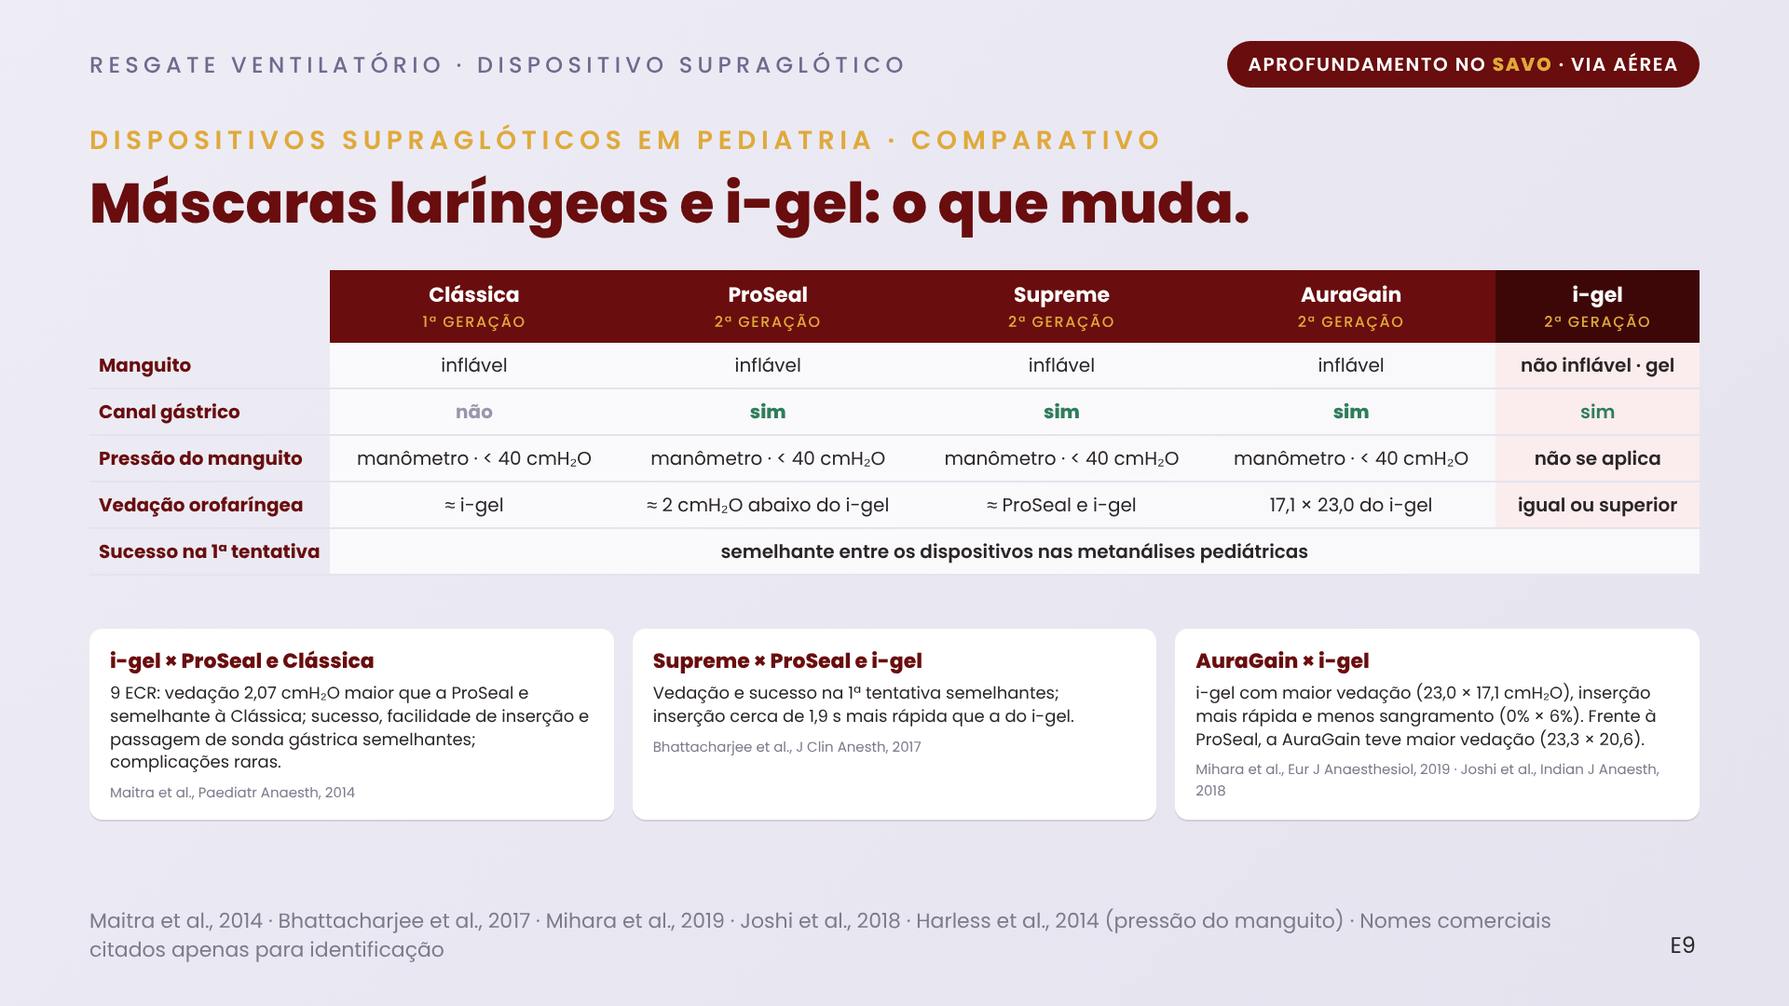
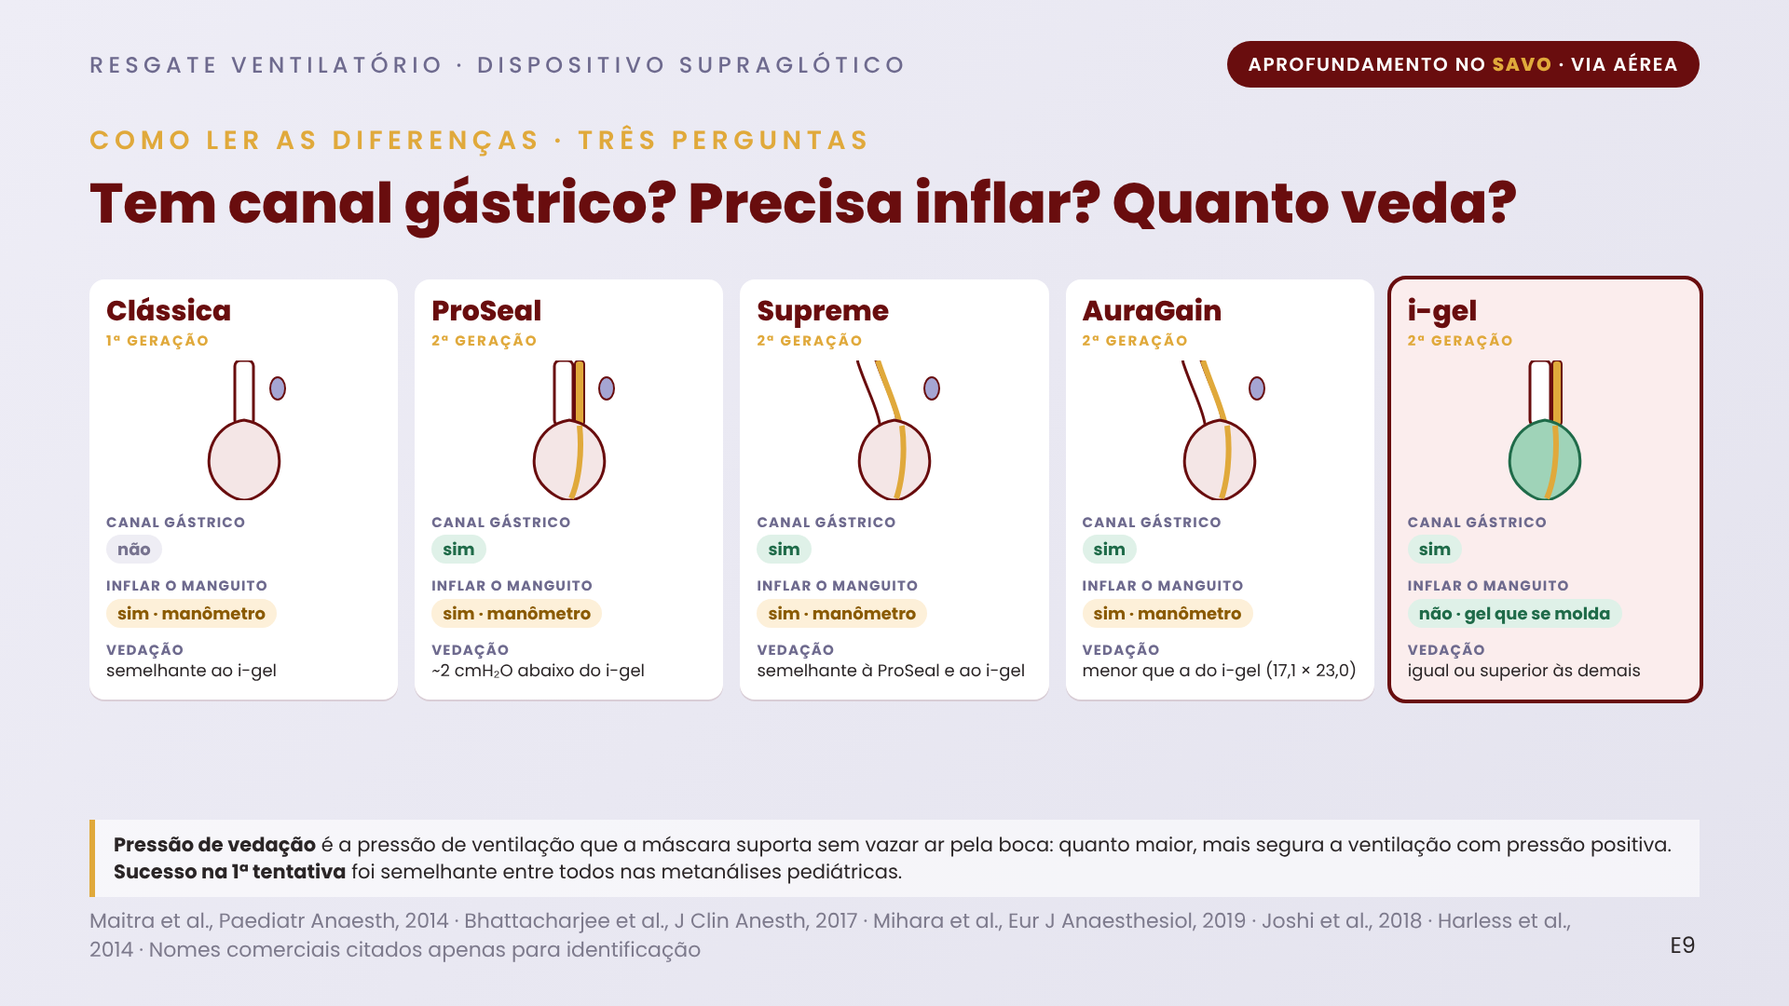
E9 refeito (leitura das diferencas) e E10 (escolha para a maleta)
Claude-Session: https://claude.ai/code/session_01MYEGXM9LVv4Rd1VsREZmpT

Changed region(s): [[0.0312, 0.1222, 0.9688, 0.9778], [0.5312, 0.8861, 0.875, 0.9472]]

diff --git a/aulas-vias-aereas/esquemas-crianca/e9-comparativo-supraglotico.html b/aulas-vias-aereas/esquemas-crianca/e9-comparativo-supraglotico.html
@@ -5,40 +5,52 @@
 .wrap{position:absolute;left:96px;top:110px;right:96px}
 .savo{position:absolute;right:96px;top:44px;background:var(--wine);color:#fff;font-size:20px;font-weight:600;letter-spacing:.08em;padding:10px 22px;border-radius:999px}
 .savo b{color:var(--gold)}
-table{position:absolute;left:96px;top:290px;width:1728px;border-collapse:separate;border-spacing:0;font-size:20px}
-th{background:var(--wine);color:#fff;font-weight:700;font-size:22px;padding:10px 12px;text-align:center}
-th:first-child{background:transparent}
-th small{display:block;font-weight:500;font-size:16px;color:var(--gold);letter-spacing:.1em}
-th.ig{background:#3d0708}
-td{background:rgba(255,255,255,.75);padding:9px 10px;white-space:nowrap;text-align:center;border-bottom:2px solid #E4E3EE}
-td:first-child{background:transparent;text-align:left;font-weight:700;color:var(--wine);width:250px}
-td.ig{background:#FBEDED;font-weight:600}
-.y{color:#2f7d5b;font-weight:800}.n{color:#9a96ad;font-weight:700}
-.ev{position:absolute;left:96px;top:675px;width:1728px;display:grid;grid-template-columns:repeat(3,1fr);gap:20px}
-.card{background:#fff;border-radius:14px;padding:18px 22px;box-shadow:0 2px 0 rgba(105,13,14,.12)}
-.card h3{font-size:22px;color:var(--wine);font-weight:800}
-.card p{font-size:18px;line-height:1.38;margin-top:6px}
-.card small{display:block;font-size:15px;color:#7d7a8c;margin-top:8px}
+.grid{position:absolute;left:96px;top:300px;width:1728px;display:grid;grid-template-columns:repeat(5,1fr);gap:18px}
+.dev{background:#fff;border-radius:16px;padding:18px 18px 20px;box-shadow:0 2px 0 rgba(105,13,14,.12);position:relative}
+.dev.ig{background:#FBEDED;outline:4px solid var(--wine)}
+.dev h3{font-size:30px;color:var(--wine);font-weight:800;line-height:1.05}
+.dev .g{font-size:15px;letter-spacing:.14em;color:var(--gold);font-weight:700;margin-top:4px}
+.q{margin-top:14px;font-size:18px;line-height:1.3}
+.q b{display:block;font-size:15px;letter-spacing:.08em;color:var(--mute);font-weight:700;text-transform:uppercase}
+.tag{display:inline-block;margin-top:4px;padding:4px 12px;border-radius:999px;font-weight:700;font-size:18px}
+.yes{background:#dff1e8;color:#1f6b49}.no{background:#eeedf4;color:#77738f}.warn{background:#fdf0d9;color:#8a5a00}
+svg.ic{display:block;margin:10px auto 0}
+.legend{position:absolute;left:96px;top:880px;width:1728px;font-size:21px;line-height:1.4;background:rgba(255,255,255,.6);border-left:6px solid var(--gold);padding:12px 20px}
 </style></head><body>
 <div class="top">RESGATE VENTILATÓRIO · DISPOSITIVO SUPRAGLÓTICO</div>
 <div class="savo">APROFUNDAMENTO NO <b>SAVO</b> · VIA AÉREA</div>
 <div class="wrap">
-  <div class="kick" style="margin-top:20px">Dispositivos supraglóticos em pediatria · comparativo</div>
-  <h1>Máscaras laríngeas e i-gel: o que muda.</h1>
+  <div class="kick" style="margin-top:20px">Como ler as diferenças · três perguntas</div>
+  <h1>Tem canal gástrico? Precisa inflar? Quanto veda?</h1>
 </div>
-<table>
-  <tr><th></th><th>Clássica<small>1ª GERAÇÃO</small></th><th>ProSeal<small>2ª GERAÇÃO</small></th><th>Supreme<small>2ª GERAÇÃO</small></th><th>AuraGain<small>2ª GERAÇÃO</small></th><th class="ig">i-gel<small>2ª GERAÇÃO</small></th></tr>
-  <tr><td>Manguito</td><td>inflável</td><td>inflável</td><td>inflável</td><td>inflável</td><td class="ig">não inflável · gel</td></tr>
-  <tr><td>Canal gástrico</td><td class="n">não</td><td class="y">sim</td><td class="y">sim</td><td class="y">sim</td><td class="ig y">sim</td></tr>
-  <tr><td>Pressão do manguito</td><td>manômetro · &lt; 40 cmH₂O</td><td>manômetro · &lt; 40 cmH₂O</td><td>manômetro · &lt; 40 cmH₂O</td><td>manômetro · &lt; 40 cmH₂O</td><td class="ig">não se aplica</td></tr>
-  <tr><td>Vedação orofaríngea</td><td>≈ i-gel</td><td>≈ 2 cmH₂O abaixo do i-gel</td><td>≈ ProSeal e i-gel</td><td>17,1 × 23,0 do i-gel</td><td class="ig">igual ou superior</td></tr>
-  <tr><td>Sucesso na 1ª tentativa</td><td colspan="5" style="font-weight:600">semelhante entre os dispositivos nas metanálises pediátricas</td></tr>
-</table>
-<div class="ev">
-  <div class="card"><h3>i-gel × ProSeal e Clássica</h3><p>9 ECR: vedação 2,07 cmH₂O maior que a ProSeal e semelhante à Clássica; sucesso, facilidade de inserção e passagem de sonda gástrica semelhantes; complicações raras.</p><small>Maitra et al., Paediatr Anaesth, 2014</small></div>
-  <div class="card"><h3>Supreme × ProSeal e i-gel</h3><p>Vedação e sucesso na 1ª tentativa semelhantes; inserção cerca de 1,9 s mais rápida que a do i-gel.</p><small>Bhattacharjee et al., J Clin Anesth, 2017</small></div>
-  <div class="card"><h3>AuraGain × i-gel</h3><p>i-gel com maior vedação (23,0 × 17,1 cmH₂O), inserção mais rápida e menos sangramento (0% × 6%). Frente à ProSeal, a AuraGain teve maior vedação (23,3 × 20,6).</p><small>Mihara et al., Eur J Anaesthesiol, 2019 · Joshi et al., Indian J Anaesth, 2018</small></div>
+<div class="grid">
+  <div class="dev"><h3>Clássica</h3><div class="g">1ª GERAÇÃO</div>
+    <svg class="ic" width="120" height="150" viewBox="0 0 120 150"><rect x="50" y="0" width="20" height="70" rx="6" fill="#fff" stroke="#690D0E" stroke-width="3"/><path d="M60,64 C22,70 14,112 30,132 C40,144 52,150 60,150 C68,150 80,144 90,132 C106,112 98,70 60,64Z" fill="#F4E6E6" stroke="#690D0E" stroke-width="3"/><ellipse cx="96" cy="30" rx="8" ry="12" fill="#A5A5D3" stroke="#690D0E" stroke-width="2"/></svg>
+    <div class="q"><b>Canal gástrico</b><span class="tag no">não</span></div>
+    <div class="q"><b>Inflar o manguito</b><span class="tag warn">sim · manômetro</span></div>
+    <div class="q"><b>Vedação</b>semelhante ao i-gel</div></div>
+  <div class="dev"><h3>ProSeal</h3><div class="g">2ª GERAÇÃO</div>
+    <svg class="ic" width="120" height="150" viewBox="0 0 120 150"><rect x="44" y="0" width="20" height="70" rx="6" fill="#fff" stroke="#690D0E" stroke-width="3"/><rect x="66" y="0" width="10" height="70" rx="4" fill="#E0A93B" stroke="#690D0E" stroke-width="2"/><path d="M60,64 C22,70 14,112 30,132 C40,144 52,150 60,150 C68,150 80,144 90,132 C106,112 98,70 60,64Z" fill="#F4E6E6" stroke="#690D0E" stroke-width="3"/><path d="M71,70 C74,100 70,130 62,148" fill="none" stroke="#E0A93B" stroke-width="6"/><ellipse cx="100" cy="30" rx="8" ry="12" fill="#A5A5D3" stroke="#690D0E" stroke-width="2"/></svg>
+    <div class="q"><b>Canal gástrico</b><span class="tag yes">sim</span></div>
+    <div class="q"><b>Inflar o manguito</b><span class="tag warn">sim · manômetro</span></div>
+    <div class="q"><b>Vedação</b>~2 cmH₂O abaixo do i-gel</div></div>
+  <div class="dev"><h3>Supreme</h3><div class="g">2ª GERAÇÃO</div>
+    <svg class="ic" width="120" height="150" viewBox="0 0 120 150"><path d="M30,0 C40,30 52,50 54,70" fill="none" stroke="#690D0E" stroke-width="22" stroke-linecap="round"/><path d="M30,0 C40,30 52,50 54,70" fill="none" stroke="#fff" stroke-width="16" stroke-linecap="round"/><path d="M42,0 C52,30 62,50 66,70" fill="none" stroke="#E0A93B" stroke-width="6"/><path d="M60,64 C22,70 14,112 30,132 C40,144 52,150 60,150 C68,150 80,144 90,132 C106,112 98,70 60,64Z" fill="#F4E6E6" stroke="#690D0E" stroke-width="3"/><path d="M68,70 C72,100 68,130 62,148" fill="none" stroke="#E0A93B" stroke-width="6"/><ellipse cx="100" cy="30" rx="8" ry="12" fill="#A5A5D3" stroke="#690D0E" stroke-width="2"/></svg>
+    <div class="q"><b>Canal gástrico</b><span class="tag yes">sim</span></div>
+    <div class="q"><b>Inflar o manguito</b><span class="tag warn">sim · manômetro</span></div>
+    <div class="q"><b>Vedação</b>semelhante à ProSeal e ao i-gel</div></div>
+  <div class="dev"><h3>AuraGain</h3><div class="g">2ª GERAÇÃO</div>
+    <svg class="ic" width="120" height="150" viewBox="0 0 120 150"><path d="M30,0 C40,30 52,50 54,70" fill="none" stroke="#690D0E" stroke-width="22" stroke-linecap="round"/><path d="M30,0 C40,30 52,50 54,70" fill="none" stroke="#fff" stroke-width="16" stroke-linecap="round"/><path d="M42,0 C52,30 62,50 66,70" fill="none" stroke="#E0A93B" stroke-width="6"/><path d="M60,64 C22,70 14,112 30,132 C40,144 52,150 60,150 C68,150 80,144 90,132 C106,112 98,70 60,64Z" fill="#F4E6E6" stroke="#690D0E" stroke-width="3"/><path d="M68,70 C72,100 68,130 62,148" fill="none" stroke="#E0A93B" stroke-width="6"/><ellipse cx="100" cy="30" rx="8" ry="12" fill="#A5A5D3" stroke="#690D0E" stroke-width="2"/></svg>
+    <div class="q"><b>Canal gástrico</b><span class="tag yes">sim</span></div>
+    <div class="q"><b>Inflar o manguito</b><span class="tag warn">sim · manômetro</span></div>
+    <div class="q"><b>Vedação</b>menor que a do i-gel (17,1 × 23,0)</div></div>
+  <div class="dev ig"><h3>i-gel</h3><div class="g">2ª GERAÇÃO</div>
+    <svg class="ic" width="120" height="150" viewBox="0 0 120 150"><rect x="44" y="0" width="22" height="70" rx="6" fill="#fff" stroke="#690D0E" stroke-width="3"/><rect x="68" y="0" width="10" height="70" rx="4" fill="#E0A93B" stroke="#690D0E" stroke-width="2"/><path d="M60,64 C22,70 14,112 30,132 C40,144 52,150 60,150 C68,150 80,144 90,132 C106,112 98,70 60,64Z" fill="#9fd3b8" stroke="#1f6b49" stroke-width="3"/><path d="M71,70 C74,100 70,130 62,148" fill="none" stroke="#E0A93B" stroke-width="6"/></svg>
+    <div class="q"><b>Canal gástrico</b><span class="tag yes">sim</span></div>
+    <div class="q"><b>Inflar o manguito</b><span class="tag yes">não · gel que se molda</span></div>
+    <div class="q"><b>Vedação</b>igual ou superior às demais</div></div>
 </div>
-<div class="refs">Maitra et al., 2014 · Bhattacharjee et al., 2017 · Mihara et al., 2019 · Joshi et al., 2018 · Harless et al., 2014 (pressão do manguito) · Nomes comerciais citados apenas para identificação</div>
+<div class="legend"><b>Pressão de vedação</b> é a pressão de ventilação que a máscara suporta sem vazar ar pela boca: quanto maior, mais segura a ventilação com pressão positiva. <b>Sucesso na 1ª tentativa</b> foi semelhante entre todos nas metanálises pediátricas.</div>
+<div class="refs">Maitra et al., Paediatr Anaesth, 2014 · Bhattacharjee et al., J Clin Anesth, 2017 · Mihara et al., Eur J Anaesthesiol, 2019 · Joshi et al., 2018 · Harless et al., 2014 · Nomes comerciais citados apenas para identificação</div>
 <div class="num">E9</div>
 </body></html>

diff --git a/aulas-vias-aereas/esquemas-crianca/e10-maleta-supraglotico.html b/aulas-vias-aereas/esquemas-crianca/e10-maleta-supraglotico.html
@@ -1,0 +1,49 @@
+<!doctype html><html lang="pt-BR"><head><meta charset="utf-8">
+<link href="https://fonts.googleapis.com/css2?family=Poppins:wght@300;400;500;600;700;800&display=swap" rel="stylesheet">
+<link rel="stylesheet" href="base.css">
+<style>
+.wrap{position:absolute;left:96px;top:110px;right:96px}
+.savo{position:absolute;right:96px;top:44px;background:var(--wine);color:#fff;font-size:20px;font-weight:600;letter-spacing:.08em;padding:10px 22px;border-radius:999px}
+.savo b{color:var(--gold)}
+.left{position:absolute;left:96px;top:300px;width:900px}
+.crit{display:flex;gap:18px;align-items:flex-start;margin-bottom:20px}
+.crit .n{flex:0 0 52px;height:52px;border-radius:50%;background:var(--gold);color:var(--wine);font:800 24px Poppins;display:flex;align-items:center;justify-content:center;border:2px solid var(--wine)}
+.crit h3{font-size:26px;color:var(--wine);font-weight:800}
+.crit p{font-size:20px;line-height:1.38;margin-top:2px}
+.crit small{display:block;font-size:16px;color:#7d7a8c;margin-top:4px}
+.right{position:absolute;left:1060px;top:300px;width:764px}
+.card{background:#fff;border-radius:16px;padding:22px 26px;box-shadow:0 2px 0 rgba(105,13,14,.12);margin-bottom:18px}
+.card h3{font-size:24px;color:var(--wine);font-weight:800;letter-spacing:.02em}
+table{width:100%;border-collapse:collapse;margin-top:8px;font-size:21px}
+td{padding:6px 8px;border-top:1px solid rgba(105,13,14,.12)}
+td.s{font-weight:800;color:var(--wine);width:70px}
+.pill{display:inline-block;background:var(--wine);color:#fff;font-weight:700;font-size:16px;padding:3px 10px;border-radius:999px;margin-left:6px}
+.note{font-size:17px;color:#5c586f;margin-top:8px;line-height:1.35}
+</style></head><body>
+<div class="top">RESGATE VENTILATÓRIO · DISPOSITIVO SUPRAGLÓTICO</div>
+<div class="savo">APROFUNDAMENTO NO <b>SAVO</b> · VIA AÉREA</div>
+<div class="wrap">
+  <div class="kick" style="margin-top:20px">Uso infrequente · critério de escolha para a maleta</div>
+  <h1>Menos etapas, mais acertos sob estresse.</h1>
+</div>
+<div class="left">
+  <div class="crit"><div class="n">1</div><div><h3>2ª geração, com canal gástrico</h3><p>Descompressão gástrica durante a ventilação, inclusive no lactente.</p><small>Dodd et al., Ann Emerg Med, 2016</small></div></div>
+  <div class="crit"><div class="n">2</div><div><h3>Alto sucesso nas mãos de quem usa pouco</h3><p>Operadores inexperientes, 505 pacientes: sucesso na 1ª tentativa de 96% com a Supreme e 87,9% com o i-gel, com as inserções mais rápidas.</p><small>Henlin et al., Biomed Res Int, 2015</small></div></div>
+  <div class="crit"><div class="n">3</div><div><h3>Sem manguito para inflar</h3><p>Em manequim, novatos ventilaram com o i-gel em 14 s × 38 s com a máscara clássica, com menor dificuldade percebida.</p><small>Kuwahara et al., Masui, 2013</small></div></div>
+  <div class="crit"><div class="n">4</div><div><h3>Habilidade que se mantém, mas só com treino</h3><p>Após 3 meses sem prática, 100% de sucesso com a maioria dos supraglóticos, contra 58% na intubação. Dentistas devem usar o dispositivo apenas após treinamento.</p><small>Ruetzler et al., Resuscitation, 2011 · Keilholz e Mutzbauer, Br Dent J, 2015</small></div></div>
+</div>
+<div class="right">
+  <div class="card"><h3>Mesmo dispositivo, todos os tamanhos</h3>
+    <p class="note" style="font-size:19px;color:#2A2526">Na criança e no adulto, vale o mesmo critério. O que muda é o <b>tamanho</b>: manter na maleta a faixa pediátrica e a adulta do mesmo modelo, para a equipe treinar um único gesto.</p>
+    <table>
+      <tr><td class="s">1,5</td><td>5–12 kg</td><td class="s">3</td><td>30–60 kg</td></tr>
+      <tr><td class="s">2</td><td>10–25 kg</td><td class="s">4</td><td>50–90 kg</td></tr>
+      <tr><td class="s">2,5</td><td>25–35 kg</td><td class="s">5</td><td>&gt; 90 kg</td></tr>
+    </table>
+    <p class="note">Faixas de peso do i-gel informadas pelo fabricante; conferir na embalagem do modelo adquirido. Tamanho 1 (2–5 kg) apenas se houver atendimento de lactentes.</p>
+  </div>
+  <div class="card"><h3>Na criança, atenção redobrada</h3><p class="note" style="font-size:19px;color:#2A2526">Lubrificação, inserção suave e fixação: a profundidade ideal do i-gel pediátrico varia com o tamanho da criança.</p><p class="note">Abukawa et al., J Anesth, 2015 · Sun et al., 2021</p></div>
+</div>
+<div class="refs">Decisão clínica da equipe · Henlin et al., 2015 · Kuwahara et al., 2013 · Ruetzler et al., 2011 · Keilholz e Mutzbauer, 2015 · Dodd et al., 2016 · McCaw et al., 2023</div>
+<div class="num">E10</div>
+</body></html>

diff --git a/aulas-vias-aereas/esquemas-crianca/e9b-tabela-tecnica.html b/aulas-vias-aereas/esquemas-crianca/e9b-tabela-tecnica.html
@@ -1,0 +1,44 @@
+<!doctype html><html lang="pt-BR"><head><meta charset="utf-8">
+<link href="https://fonts.googleapis.com/css2?family=Poppins:wght@300;400;500;600;700;800&display=swap" rel="stylesheet">
+<link rel="stylesheet" href="base.css">
+<style>
+.wrap{position:absolute;left:96px;top:110px;right:96px}
+.savo{position:absolute;right:96px;top:44px;background:var(--wine);color:#fff;font-size:20px;font-weight:600;letter-spacing:.08em;padding:10px 22px;border-radius:999px}
+.savo b{color:var(--gold)}
+table{position:absolute;left:96px;top:290px;width:1728px;border-collapse:separate;border-spacing:0;font-size:20px}
+th{background:var(--wine);color:#fff;font-weight:700;font-size:22px;padding:10px 12px;text-align:center}
+th:first-child{background:transparent}
+th small{display:block;font-weight:500;font-size:16px;color:var(--gold);letter-spacing:.1em}
+th.ig{background:#3d0708}
+td{background:rgba(255,255,255,.75);padding:9px 10px;white-space:nowrap;text-align:center;border-bottom:2px solid #E4E3EE}
+td:first-child{background:transparent;text-align:left;font-weight:700;color:var(--wine);width:250px}
+td.ig{background:#FBEDED;font-weight:600}
+.y{color:#2f7d5b;font-weight:800}.n{color:#9a96ad;font-weight:700}
+.ev{position:absolute;left:96px;top:675px;width:1728px;display:grid;grid-template-columns:repeat(3,1fr);gap:20px}
+.card{background:#fff;border-radius:14px;padding:18px 22px;box-shadow:0 2px 0 rgba(105,13,14,.12)}
+.card h3{font-size:22px;color:var(--wine);font-weight:800}
+.card p{font-size:18px;line-height:1.38;margin-top:6px}
+.card small{display:block;font-size:15px;color:#7d7a8c;margin-top:8px}
+</style></head><body>
+<div class="top">RESGATE VENTILATÓRIO · DISPOSITIVO SUPRAGLÓTICO</div>
+<div class="savo">APROFUNDAMENTO NO <b>SAVO</b> · VIA AÉREA</div>
+<div class="wrap">
+  <div class="kick" style="margin-top:20px">Dispositivos supraglóticos em pediatria · comparativo</div>
+  <h1>Máscaras laríngeas e i-gel: o que muda.</h1>
+</div>
+<table>
+  <tr><th></th><th>Clássica<small>1ª GERAÇÃO</small></th><th>ProSeal<small>2ª GERAÇÃO</small></th><th>Supreme<small>2ª GERAÇÃO</small></th><th>AuraGain<small>2ª GERAÇÃO</small></th><th class="ig">i-gel<small>2ª GERAÇÃO</small></th></tr>
+  <tr><td>Manguito</td><td>inflável</td><td>inflável</td><td>inflável</td><td>inflável</td><td class="ig">não inflável · gel</td></tr>
+  <tr><td>Canal gástrico</td><td class="n">não</td><td class="y">sim</td><td class="y">sim</td><td class="y">sim</td><td class="ig y">sim</td></tr>
+  <tr><td>Pressão do manguito</td><td>manômetro · &lt; 40 cmH₂O</td><td>manômetro · &lt; 40 cmH₂O</td><td>manômetro · &lt; 40 cmH₂O</td><td>manômetro · &lt; 40 cmH₂O</td><td class="ig">não se aplica</td></tr>
+  <tr><td>Vedação orofaríngea</td><td>≈ i-gel</td><td>≈ 2 cmH₂O abaixo do i-gel</td><td>≈ ProSeal e i-gel</td><td>17,1 × 23,0 do i-gel</td><td class="ig">igual ou superior</td></tr>
+  <tr><td>Sucesso na 1ª tentativa</td><td colspan="5" style="font-weight:600">semelhante entre os dispositivos nas metanálises pediátricas</td></tr>
+</table>
+<div class="ev">
+  <div class="card"><h3>i-gel × ProSeal e Clássica</h3><p>9 ECR: vedação 2,07 cmH₂O maior que a ProSeal e semelhante à Clássica; sucesso, facilidade de inserção e passagem de sonda gástrica semelhantes; complicações raras.</p><small>Maitra et al., Paediatr Anaesth, 2014</small></div>
+  <div class="card"><h3>Supreme × ProSeal e i-gel</h3><p>Vedação e sucesso na 1ª tentativa semelhantes; inserção cerca de 1,9 s mais rápida que a do i-gel.</p><small>Bhattacharjee et al., J Clin Anesth, 2017</small></div>
+  <div class="card"><h3>AuraGain × i-gel</h3><p>i-gel com maior vedação (23,0 × 17,1 cmH₂O), inserção mais rápida e menos sangramento (0% × 6%). Frente à ProSeal, a AuraGain teve maior vedação (23,3 × 20,6).</p><small>Mihara et al., Eur J Anaesthesiol, 2019 · Joshi et al., Indian J Anaesth, 2018</small></div>
+</div>
+<div class="refs">Maitra et al., 2014 · Bhattacharjee et al., 2017 · Mihara et al., 2019 · Joshi et al., 2018 · Harless et al., 2014 (pressão do manguito) · Nomes comerciais citados apenas para identificação</div>
+<div class="num">E9b</div>
+</body></html>

diff --git a/aulas-vias-aereas/14-ACERVO-SAVO-via-aerea.md b/aulas-vias-aereas/14-ACERVO-SAVO-via-aerea.md
@@ -129,6 +129,14 @@ Esquemas prontos em `esquemas-crianca/` (E1 sagital, E2 laringe e Poiseuille, E3
   - AuraGain × ProSeal: vedação de 23,3 × 20,6 cmH₂O; inserção e passagem da sonda mais fáceis com a AuraGain. Joshi et al., Indian J Anaesth 2018 · [doi:10.4103/ija.IJA_86_18](https://doi.org/10.4103/ija.IJA_86_18)
   - Supreme × i-gel, tamanho 2: vedação de 25,2 × 22,1 cmH₂O. Aggarwal et al., Turk J Anaesthesiol Reanim 2021 · [doi:10.5152/TJAR.2021.614](https://doi.org/10.5152/TJAR.2021.614)
   - i-gel × Air-Q: sucesso total de 97,3% × 94,7%; inserção mais rápida com o i-gel. Wahba et al., Anesth Essays Res 2021 · [doi:10.4103/aer.AER_107_20](https://doi.org/10.4103/aer.AER_107_20)
+- **Escolha para a maleta, considerando uso infrequente (esquema E10):** priorizar um dispositivo de 2ª geração, com muitos acertos nas mãos de inexperientes, de preferência sem manguito para inflar, e o mesmo modelo nas faixas pediátrica e adulta.
+  - Operadores inexperientes, 505 pacientes: sucesso na 1ª tentativa de 96% com a Supreme, 87,9% com o i-gel, 85,9% com a ProSeal, 80,6% com o LTS-D e 69,4% com o SLIPA; as inserções mais rápidas foram com a Supreme e o i-gel. Henlin et al., Biomed Res Int 2015 · [doi:10.1155/2015/201898](https://doi.org/10.1155/2015/201898)
+  - Em manequim, novatos ventilaram com o i-gel em 14 s × 38 s com a máscara clássica. Kuwahara et al., Masui 2013 (PMID 23772535)
+  - Retenção em 3 meses: 100% de sucesso com a maioria dos supraglóticos (exceto a ProSeal) × 58% na intubação. Ruetzler et al., Resuscitation 2011 · [doi:10.1016/j.resuscitation.2011.01.008](https://doi.org/10.1016/j.resuscitation.2011.01.008)
+  - Dentistas com tubo laríngeo × bolsa-válvula-máscara: sem insuflação gástrica com o tubo laríngeo; usar só após treinamento e iniciar as compressões antes da inserção. Keilholz e Mutzbauer, Br Dent J 2015 · [doi:10.1038/sj.bdj.2015.385](https://doi.org/10.1038/sj.bdj.2015.385)
+  - Profundidade do i-gel pediátrico variável com o tamanho da criança. Abukawa et al., J Anesth 2015 · [doi:10.1007/s00540-015-2108-7](https://doi.org/10.1007/s00540-015-2108-7)
+  - Faixas de peso do i-gel (fabricante; conferir na embalagem): 1 de 2 a 5 kg · 1,5 de 5 a 12 · 2 de 10 a 25 · 2,5 de 25 a 35 · 3 de 30 a 60 · 4 de 50 a 90 · 5 acima de 90.
+  - *Decisão clínica da Carla sobre o modelo da maleta.*
   - *Mensagem para o SAVO:* as diferenças entre os dispositivos são pequenas; o decisivo é o treino da equipe com o dispositivo disponível (McCaw 2023).
 - **Decaimento da habilidade:**
   - o tempo até a ventilação de resgate sobe de ~57 para ~90 s em 4 meses. McCaw et al., Adv Simul 2023 · [doi:10.1186/s41077-023-00244-5](https://doi.org/10.1186/s41077-023-00244-5)
